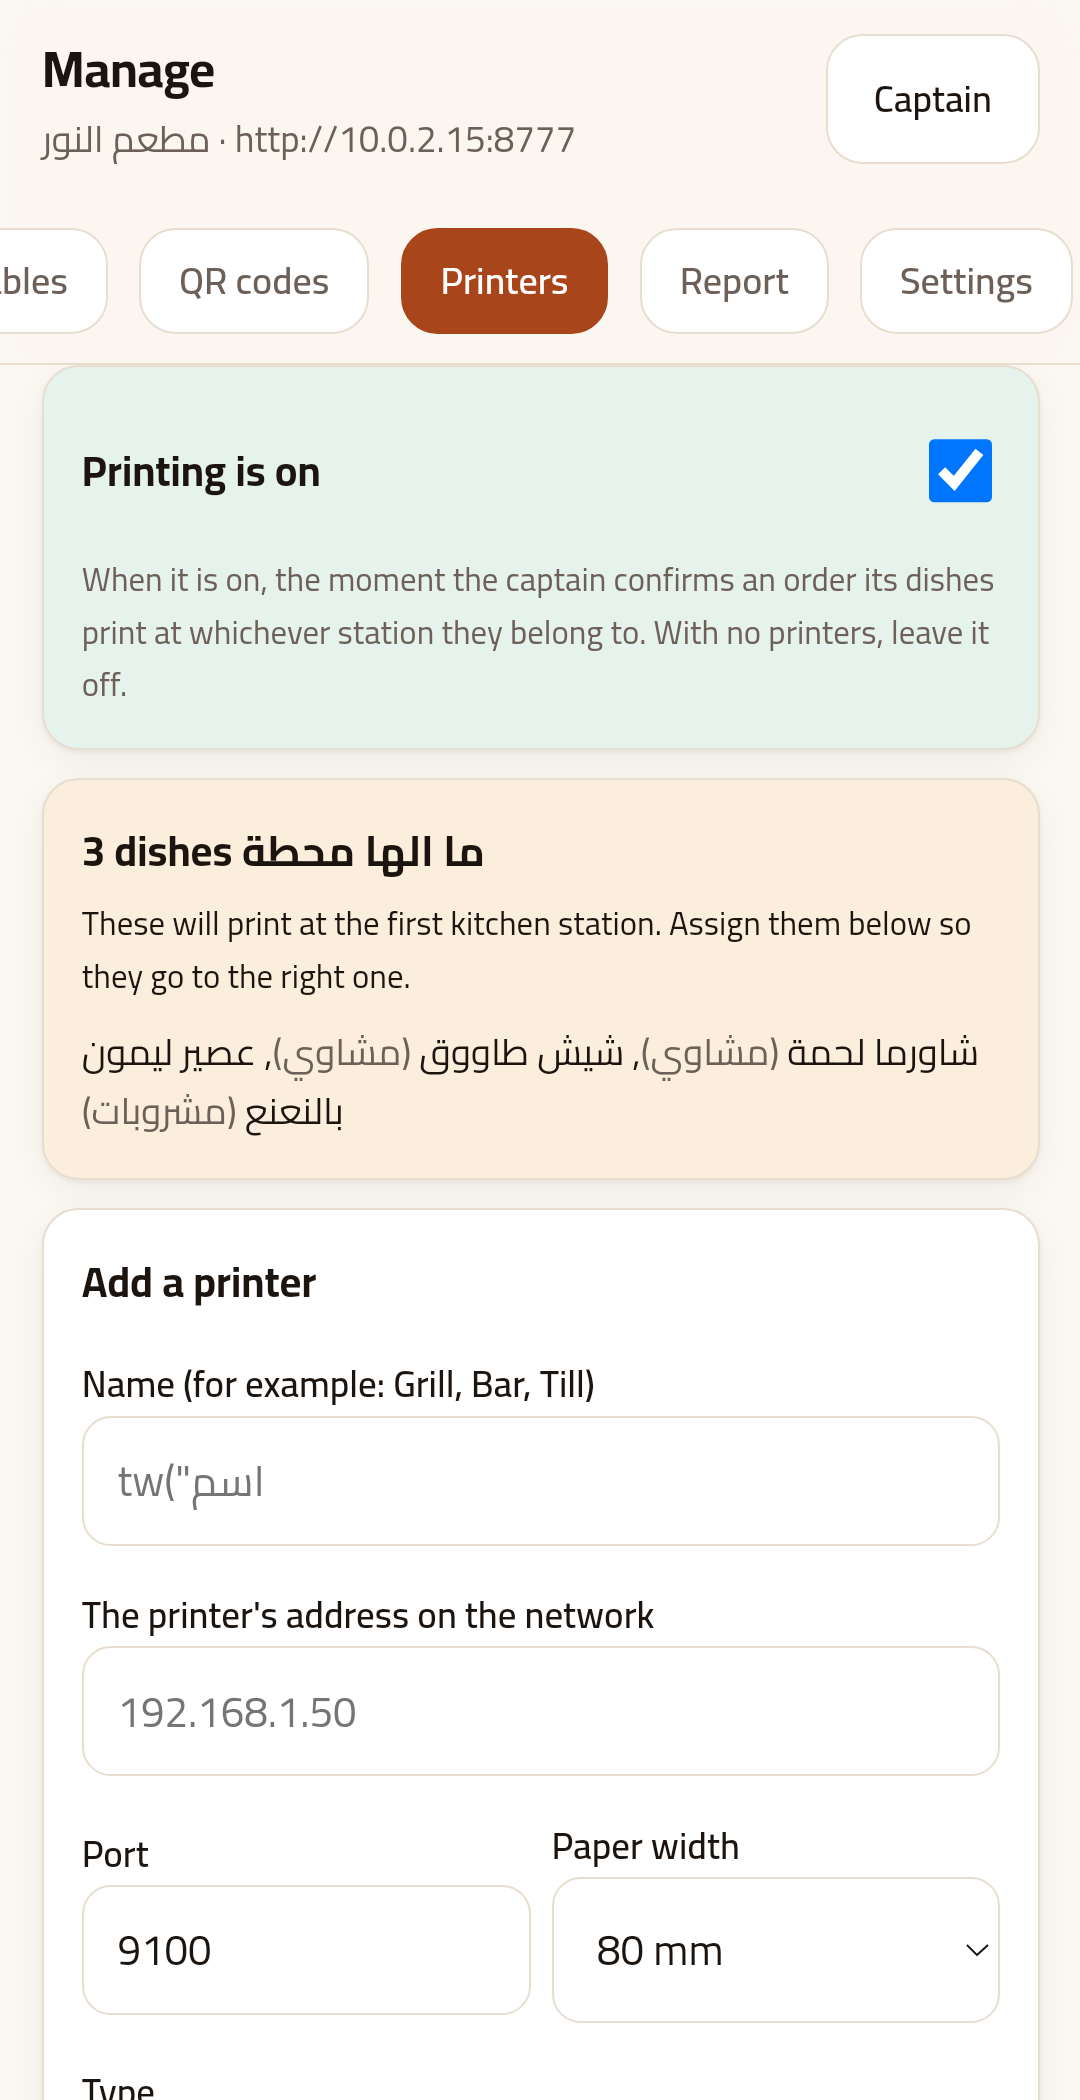
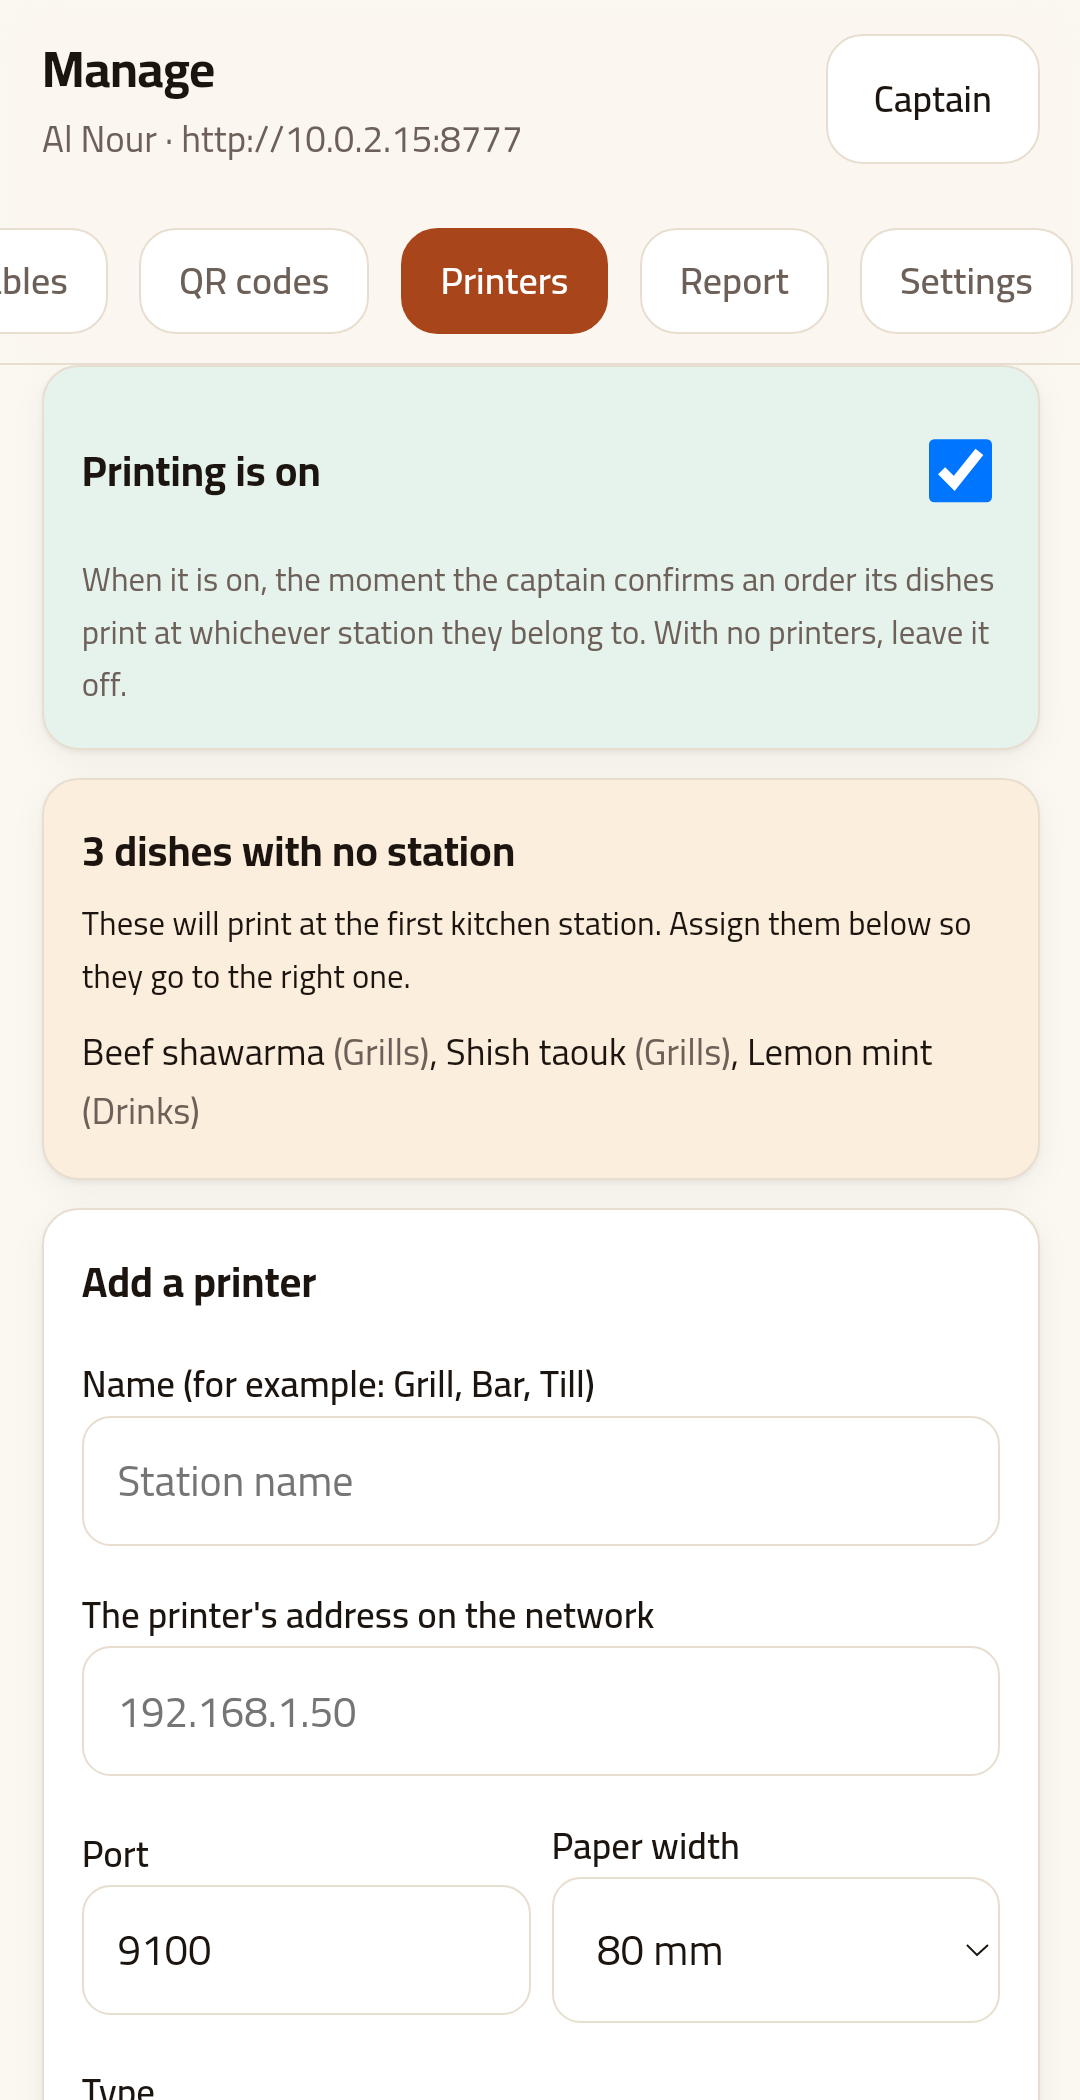
The cashier's screen, and screenshots that match the app
Adds a third view beside the guest's and the captain's, with the line a buyer
needs: it opens from the cashier's own computer on the restaurant's WiFi,
shows only the tables that owe something, and settles one with a tap. On a
wide screen it takes the row under the other two, because those carry two
phones each and a third column would be six phones abreast.

The switcher now works from a list. Adding this third screen meant finding
every line that named the other two by hand; the fourth will be one entry.

And every screenshot is refreshed from the current build. The ones here were
from a build whose management screen printed tw("الاسم") into its own input
boxes - a bug fixed the same day and still on display on the page the printed
brochure's QR code points at.

Claude-Session: https://claude.ai/code/session_01744NK3vQnHSbhMV1uBAm7A

diff --git a/index.html b/index.html
@@ -101,6 +101,8 @@
   @media (min-width:900px){
     .switch{display:none}
     .views{grid-template-columns:1fr 1fr; align-items:start}
+    #view-cashier{grid-column:1 / -1}
+    #view-cashier .shots{max-width:340px; margin-inline:auto}
     .view{display:block !important}
   }
 
@@ -207,14 +209,15 @@
 
   <!-- ================================================= the two views -->
   <section id="views" class="wrap">
-    <h2 data-ar="الشاشتين" data-en="The two sides"></h2>
+    <h2 data-ar="الشاشات الثلاث" data-en="The three screens"></h2>
     <p class="sub"
-       data-ar="واحدة بيد الزبون، و وحدة بيد الكابتن. الاثنين من نفس الجوال."
-       data-en="One in the guest's hand, one in the captain's. Both served by the same phone."></p>
+       data-ar="وحدة بيد الزبون، و وحدة بيد الكابتن، و وحدة عند الكاشير. كلهن من نفس الجوال."
+       data-en="One in the guest's hand, one in the captain's, one at the till. All served by the same phone."></p>
 
     <div class="switch" role="group">
       <button id="tab-menu" aria-pressed="true" data-ar="شاشة الزبون" data-en="Menu view"></button>
       <button id="tab-app" aria-pressed="false" data-ar="شاشة الكابتن" data-en="App view"></button>
+      <button id="tab-cashier" aria-pressed="false" data-ar="شاشة الكاشير" data-en="Cashier view"></button>
     </div>
 
     <div class="views">
@@ -235,6 +238,15 @@
         <div class="shots">
           <div class="phone"><img src="img/shot-3-captain.png" data-ar="img/shot-3-captain.png" data-en="img/shot-en-3-captain.png" alt="" loading="lazy" width="1080" height="2100"></div>
           <div class="phone"><img src="img/shot-4-admin.png" data-ar="img/shot-4-admin.png" data-en="img/shot-en-4-admin.png" alt="" loading="lazy" width="1080" height="2100"></div>
+        </div>
+      </div>
+
+      <div class="view" id="view-cashier" hidden>
+        <h3 data-ar="شاشة الكاشير — Cashier view" data-en="Cashier view"></h3>
+        <p data-ar="بيفتحها الكاشير من كمبيوترو أو جوالو على واي فاي المطعم، و ما بيشوف غير الطاولات الي عليها حساب — و بضغطة بيسكّر الطاولة."
+           data-en="Opened from the cashier's own computer or phone on the restaurant's WiFi. It shows only the tables that owe something, and settles one with a tap."></p>
+        <div class="shots">
+          <div class="phone"><img src="img/shot-8-cashier.png" data-ar="img/shot-8-cashier.png" data-en="img/shot-en-8-cashier.png" alt="" loading="lazy" width="1080" height="2100"></div>
         </div>
       </div>
     </div>
@@ -417,25 +429,30 @@
 // un-hides both when the layout is wide, or a visitor who switched on a
 // phone and then rotated would be left with one empty column.
 (function () {
-  var menuBtn = document.getElementById('tab-menu');
-  var appBtn = document.getElementById('tab-app');
-  var menu = document.getElementById('view-menu');
-  var app = document.getElementById('view-app');
+  // Driven from a list rather than a pair of variables: a third screen was
+  // added and every line that named both by hand had to be found and changed.
+  // The next one is one entry.
+  var names = ['menu', 'app', 'cashier'];
+  var tabs = {}, views = {};
+  names.forEach(function (n) {
+    tabs[n] = document.getElementById('tab-' + n);
+    views[n] = document.getElementById('view-' + n);
+  });
   var wide = window.matchMedia('(min-width: 900px)');
+  var current = 'menu';
 
   function show(which) {
-    if (wide.matches) { menu.hidden = false; app.hidden = false; return; }
-    menu.hidden = which !== 'menu';
-    app.hidden = which !== 'app';
-    menuBtn.setAttribute('aria-pressed', String(which === 'menu'));
-    appBtn.setAttribute('aria-pressed', String(which === 'app'));
+    current = which;
+    names.forEach(function (n) {
+      views[n].hidden = wide.matches ? false : (n !== which);
+      tabs[n].setAttribute('aria-pressed', String(n === which));
+    });
   }
 
-  menuBtn.onclick = function () { show('menu'); };
-  appBtn.onclick = function () { show('app'); };
-  wide.addEventListener('change', function () {
-    show(appBtn.getAttribute('aria-pressed') === 'true' ? 'app' : 'menu');
+  names.forEach(function (n) {
+    tabs[n].onclick = function () { show(n); };
   });
+  wide.addEventListener('change', function () { show(current); });
   show('menu');
 })();
 </script>
